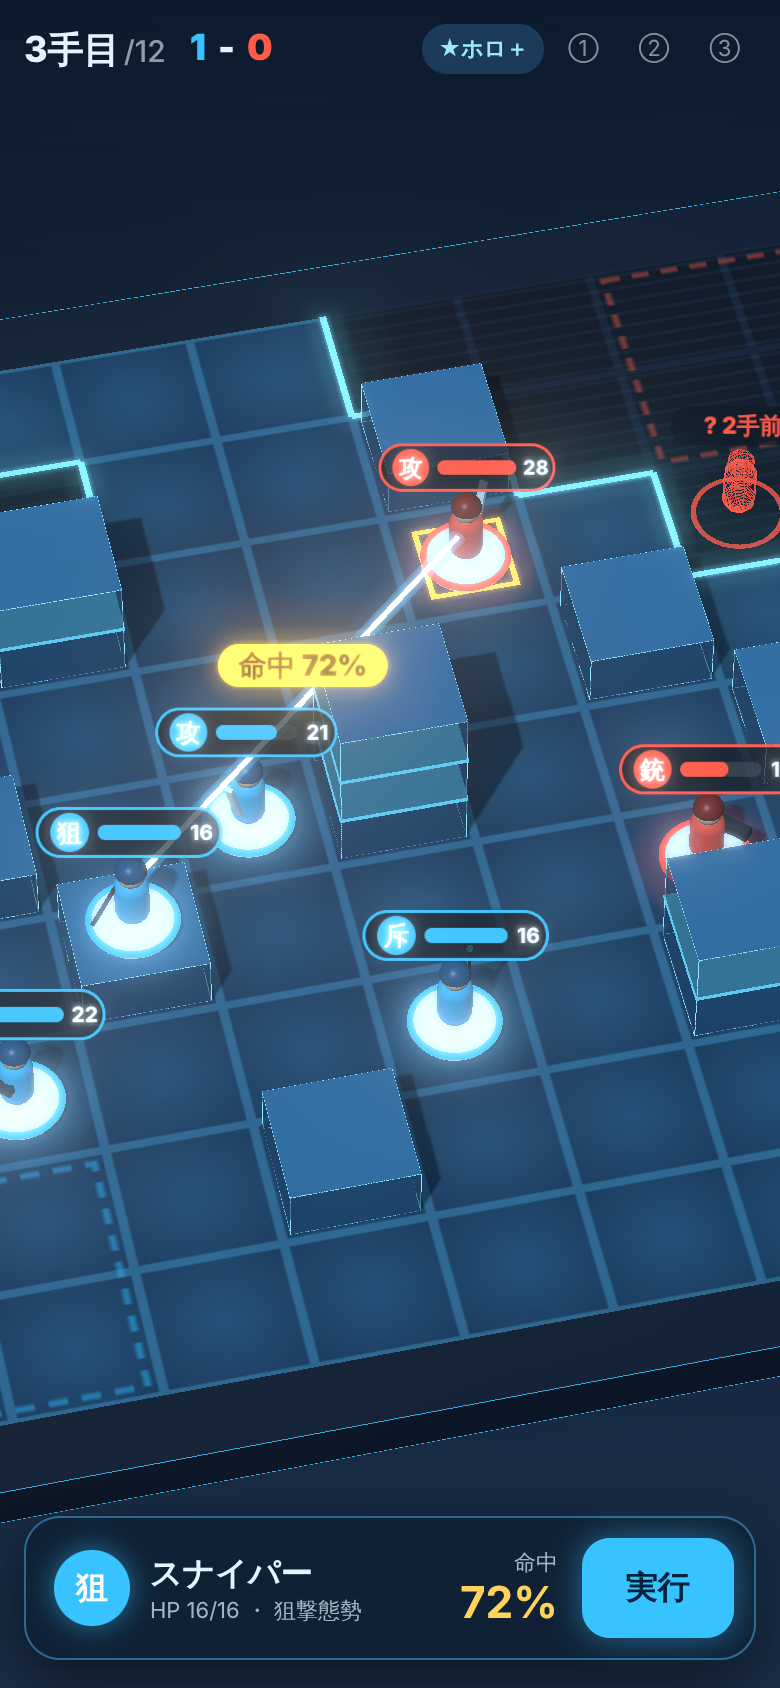
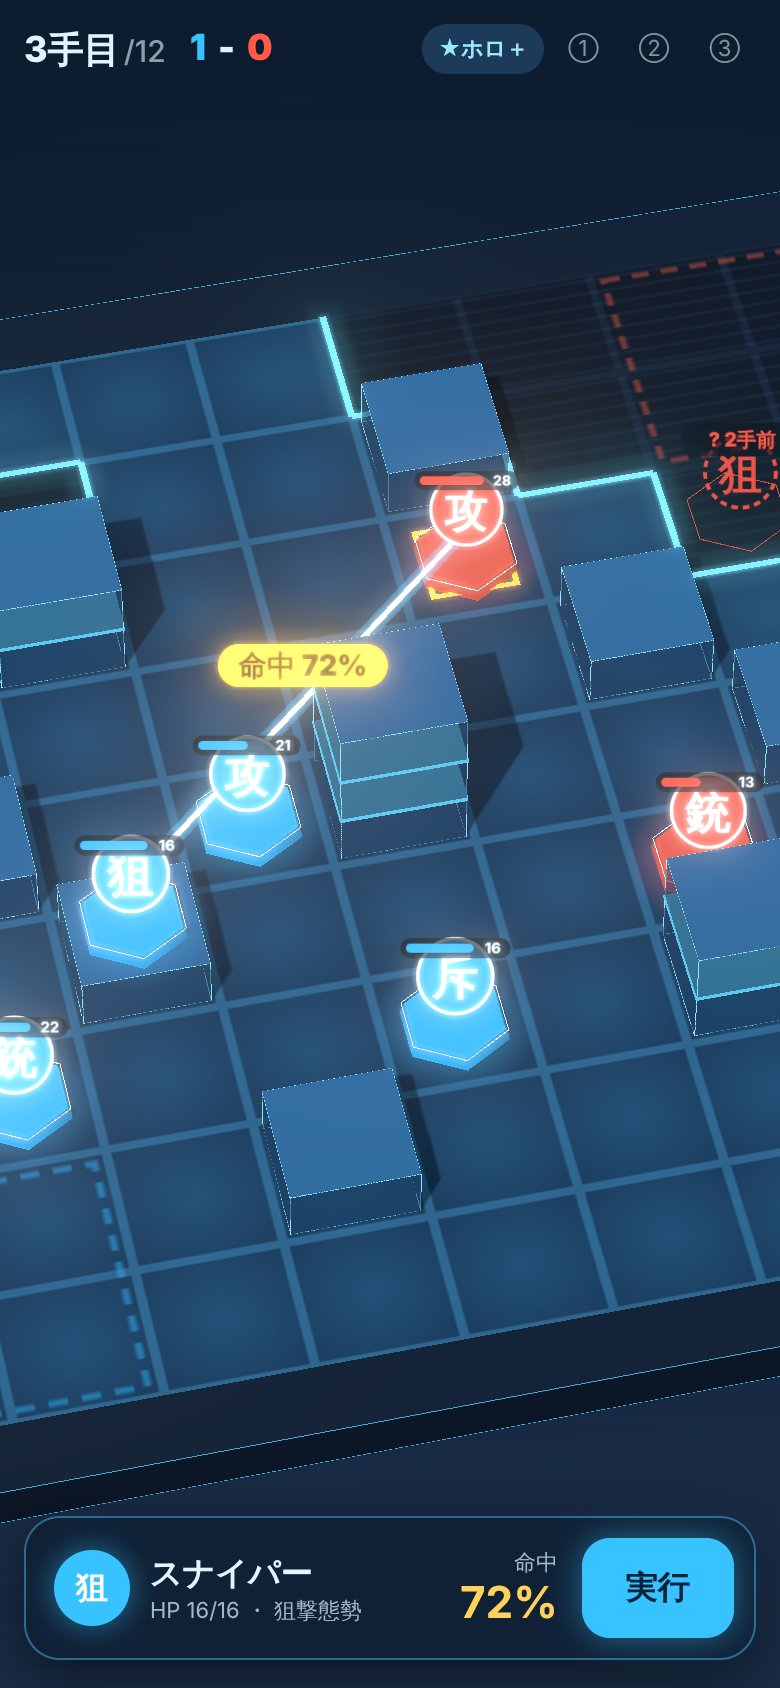
mockups: holo+ uses letter-based pieces (hex plate + kanji token + HP bar)
Claude-Session: https://claude.ai/code/session_01PHVcguePspPpHkDKCArjSN

diff --git a/mockups/main.ts b/mockups/main.ts
@@ -881,41 +881,52 @@ function holo2() {
     scene.add(top)
   }
 
-  // 札：クラスの字＋HPバー
-  const tag = (p: Piece) =>
-    canvas(256, 96, (g) => {
+  // 駒：①ホロの「六角の台座＋光る字」を基本に、字を陣営色の丸に乗せて読みやすくする
+  const token = (p: Piece, ghost = false) =>
+    canvas(160, 160, (g) => {
       const col = hex(p.side === 0 ? ME : EN)
-      g.fillStyle = 'rgba(8,18,32,0.88)'
       g.beginPath()
-      g.roundRect(4, 16, 248, 64, 32)
-      g.fill()
-      g.strokeStyle = col
-      g.lineWidth = 4
-      g.stroke()
-      g.fillStyle = col
-      g.beginPath()
-      g.arc(48, 48, 26, 0, Math.PI * 2)
-      g.fill()
-      g.fillStyle = '#ffffff'
-      g.font = '900 34px system-ui'
+      g.arc(80, 80, 64, 0, Math.PI * 2)
+      if (ghost) {
+        g.setLineDash([12, 9])
+        g.strokeStyle = col
+        g.lineWidth = 7
+        g.stroke()
+      } else {
+        g.fillStyle = col
+        g.fill()
+        g.strokeStyle = 'rgba(255,255,255,0.9)'
+        g.lineWidth = 6
+        g.stroke()
+      }
+      g.fillStyle = ghost ? col : '#ffffff'
+      g.font = '900 78px "Hiragino Sans", system-ui'
       g.textAlign = 'center'
       g.textBaseline = 'middle'
-      g.fillText(kanji(p.cls), 48, 50)
+      g.fillText(kanji(p.cls), 80, 86)
+    })
+  const hpBar = (p: Piece) =>
+    canvas(200, 48, (g) => {
+      const col = hex(p.side === 0 ? ME : EN)
       const max = DEFAULT_RULES.classes[p.cls].hp
+      g.fillStyle = 'rgba(8,18,32,0.85)'
+      g.beginPath()
+      g.roundRect(2, 6, 196, 36, 18)
+      g.fill()
       g.fillStyle = 'rgba(255,255,255,0.15)'
       g.beginPath()
-      g.roundRect(86, 38, 112, 20, 10)
+      g.roundRect(12, 16, 120, 16, 8)
       g.fill()
       g.fillStyle = p.hp / max > 0.5 ? col : '#ffc247'
       g.beginPath()
-      g.roundRect(86, 38, Math.max(20, (112 * p.hp) / max), 20, 10)
+      g.roundRect(12, 16, Math.max(16, (120 * p.hp) / max), 16, 8)
       g.fill()
       g.fillStyle = '#e8f6ff'
-      g.font = '800 28px system-ui'
-      g.fillText(String(p.hp), 226, 50)
+      g.font = '800 26px system-ui'
+      g.textAlign = 'center'
+      g.textBaseline = 'middle'
+      g.fillText(String(p.hp), 166, 25)
     })
-
-  // 駒：陣営色の立体の人形。足元に光の輪と光だまり
   const glowTex = canvas(128, 128, (g) => {
     const gr = g.createRadialGradient(64, 64, 4, 64, 64, 64)
     gr.addColorStop(0, 'rgba(255,255,255,0.9)')
@@ -925,65 +936,37 @@ function holo2() {
   })
   for (const p of pieces) {
     const col = p.side === 0 ? ME : EN
-    const dark = p.side === 0 ? 0x1b5f8f : 0x8f2b22
+    const base = world(p.pos)
     const g = new THREE.Group()
-    g.position.copy(world(p.pos))
+    g.position.copy(base)
+    const rimGeo = new THREE.EdgesGeometry(new THREE.CylinderGeometry(0.38, 0.38, 0.001, 6))
     if (p.ghost) {
-      // 見失った敵：ワイヤーのホログラム
-      const wire = new THREE.MeshBasicMaterial({ color: col, wireframe: true, transparent: true, opacity: 0.45 })
-      const body = new THREE.Mesh(new THREE.CapsuleGeometry(0.12, 0.22, 4, 8), wire)
-      body.position.y = 0.3
-      const head = new THREE.Mesh(new THREE.SphereGeometry(0.1, 8, 6), wire)
-      head.position.y = 0.55
-      const ring = new THREE.Mesh(new THREE.RingGeometry(0.3, 0.34, 32), new THREE.MeshBasicMaterial({ color: col, transparent: true, opacity: 0.6, side: THREE.DoubleSide }))
-      ring.rotation.x = -Math.PI / 2
-      ring.position.y = 0.01
-      g.add(body, head, ring)
+      // 見失った敵：点線の字＋輪郭だけの台座
+      const rimLine = new THREE.LineSegments(rimGeo, new THREE.LineBasicMaterial({ color: col, transparent: true, opacity: 0.6 }))
+      rimLine.position.y = 0.02
+      g.add(rimLine)
       scene.add(g)
-      sprite(label(`? ${p.ghost}手前`, { font: '800 40px system-ui', fill: hex(col), bg: 'rgba(8,18,32,0.85)', w: 260 }), 0.7, 0.26, world(p.pos, 0.95))
+      sprite(token(p, true), 0.42, 0.42, world(p.pos, 0.45), 0.8)
+      sprite(label(`? ${p.ghost}手前`, { font: '800 40px system-ui', fill: hex(col), bg: 'rgba(8,18,32,0.85)', w: 260 }), 0.6, 0.22, world(p.pos, 0.8))
       continue
     }
-    const plastic = (c: number, emissive = 0x000000) => new THREE.MeshStandardMaterial({ color: c, roughness: 0.35, metalness: 0.05, emissive, emissiveIntensity: 0.12 })
-    const pool = new THREE.Mesh(new THREE.PlaneGeometry(1.1, 1.1), new THREE.MeshBasicMaterial({ map: glowTex, color: col, transparent: true, opacity: 0.22, depthWrite: false, blending: THREE.AdditiveBlending }))
+    const pool = new THREE.Mesh(new THREE.PlaneGeometry(1.1, 1.1), new THREE.MeshBasicMaterial({ map: glowTex, color: col, transparent: true, opacity: 0.25, depthWrite: false, blending: THREE.AdditiveBlending }))
     pool.rotation.x = -Math.PI / 2
     pool.position.y = 0.006
-    const ring = new THREE.Mesh(new THREE.TorusGeometry(0.3, 0.025, 8, 40), new THREE.MeshBasicMaterial({ color: col }))
-    ring.rotation.x = Math.PI / 2
-    ring.position.y = 0.05
-    const base = new THREE.Mesh(new THREE.CylinderGeometry(0.28, 0.3, 0.06, 32), plastic(0xe9f3fa))
-    base.position.y = 0.03
-    const body = new THREE.Mesh(new THREE.CapsuleGeometry(0.12, 0.22, 6, 16), plastic(col, col))
-    body.position.y = 0.3
-    const head = new THREE.Mesh(new THREE.SphereGeometry(0.1, 20, 14), plastic(0xf1d7bd))
-    head.position.y = 0.55
-    const helmet = new THREE.Mesh(new THREE.SphereGeometry(0.11, 20, 10, 0, Math.PI * 2, 0, Math.PI / 2), plastic(dark))
-    helmet.position.y = 0.57
-    g.add(pool, ring, base, body, head, helmet)
-    if (p.cls === 'sniper') {
-      const gun = new THREE.Mesh(new THREE.CylinderGeometry(0.015, 0.015, 0.55), plastic(0x24303d))
-      gun.rotation.z = Math.PI / 2.6
-      gun.position.set(0.1, 0.42, 0.08)
-      g.add(gun)
-    } else if (p.cls === 'gunner') {
-      const gun = new THREE.Mesh(new THREE.BoxGeometry(0.08, 0.08, 0.32), plastic(0x24303d))
-      gun.position.set(0.12, 0.33, 0.1)
-      g.add(gun)
-    } else if (p.cls === 'attacker') {
-      const blade = new THREE.Mesh(new THREE.BoxGeometry(0.03, 0.42, 0.06), plastic(0xdbe7f0, 0x99ddff))
-      blade.position.set(0.17, 0.42, 0)
-      blade.rotation.z = -0.3
-      g.add(blade)
-    } else if (p.cls === 'scout') {
-      const ant = new THREE.Mesh(new THREE.CylinderGeometry(0.008, 0.008, 0.35), plastic(0x24303d))
-      ant.position.set(-0.1, 0.6, -0.05)
-      const tip = new THREE.Mesh(new THREE.SphereGeometry(0.025, 8, 6), new THREE.MeshBasicMaterial({ color: col }))
-      tip.position.set(-0.1, 0.78, -0.05)
-      g.add(ant, tip)
-    }
-    g.traverse((o) => (o.castShadow = o !== pool))
-    g.rotation.y = p.side === 0 ? -Math.PI * 0.75 : Math.PI * 0.25
+    const plate = new THREE.Mesh(
+      new THREE.CylinderGeometry(0.36, 0.39, 0.1, 6),
+      new THREE.MeshStandardMaterial({ color: col, roughness: 0.35, metalness: 0.1, emissive: col, emissiveIntensity: 0.25 }),
+    )
+    plate.position.y = 0.05
+    plate.castShadow = true
+    const rimLine = new THREE.LineSegments(rimGeo, new THREE.LineBasicMaterial({ color: 0xffffff }))
+    rimLine.position.y = 0.101
+    const beam = new THREE.Mesh(new THREE.CylinderGeometry(0.015, 0.015, 0.3, 6), new THREE.MeshBasicMaterial({ color: col }))
+    beam.position.y = 0.25
+    g.add(pool, plate, rimLine, beam)
     scene.add(g)
-    sprite(tag(p), 0.84, 0.32, world(p.pos, 1.0))
+    sprite(token(p), 0.42, 0.42, world(p.pos, 0.55))
+    sprite(hpBar(p), 0.5, 0.12, world(p.pos, 0.86))
   }
 
   // 射線：光の筋＋照準＋命中率
